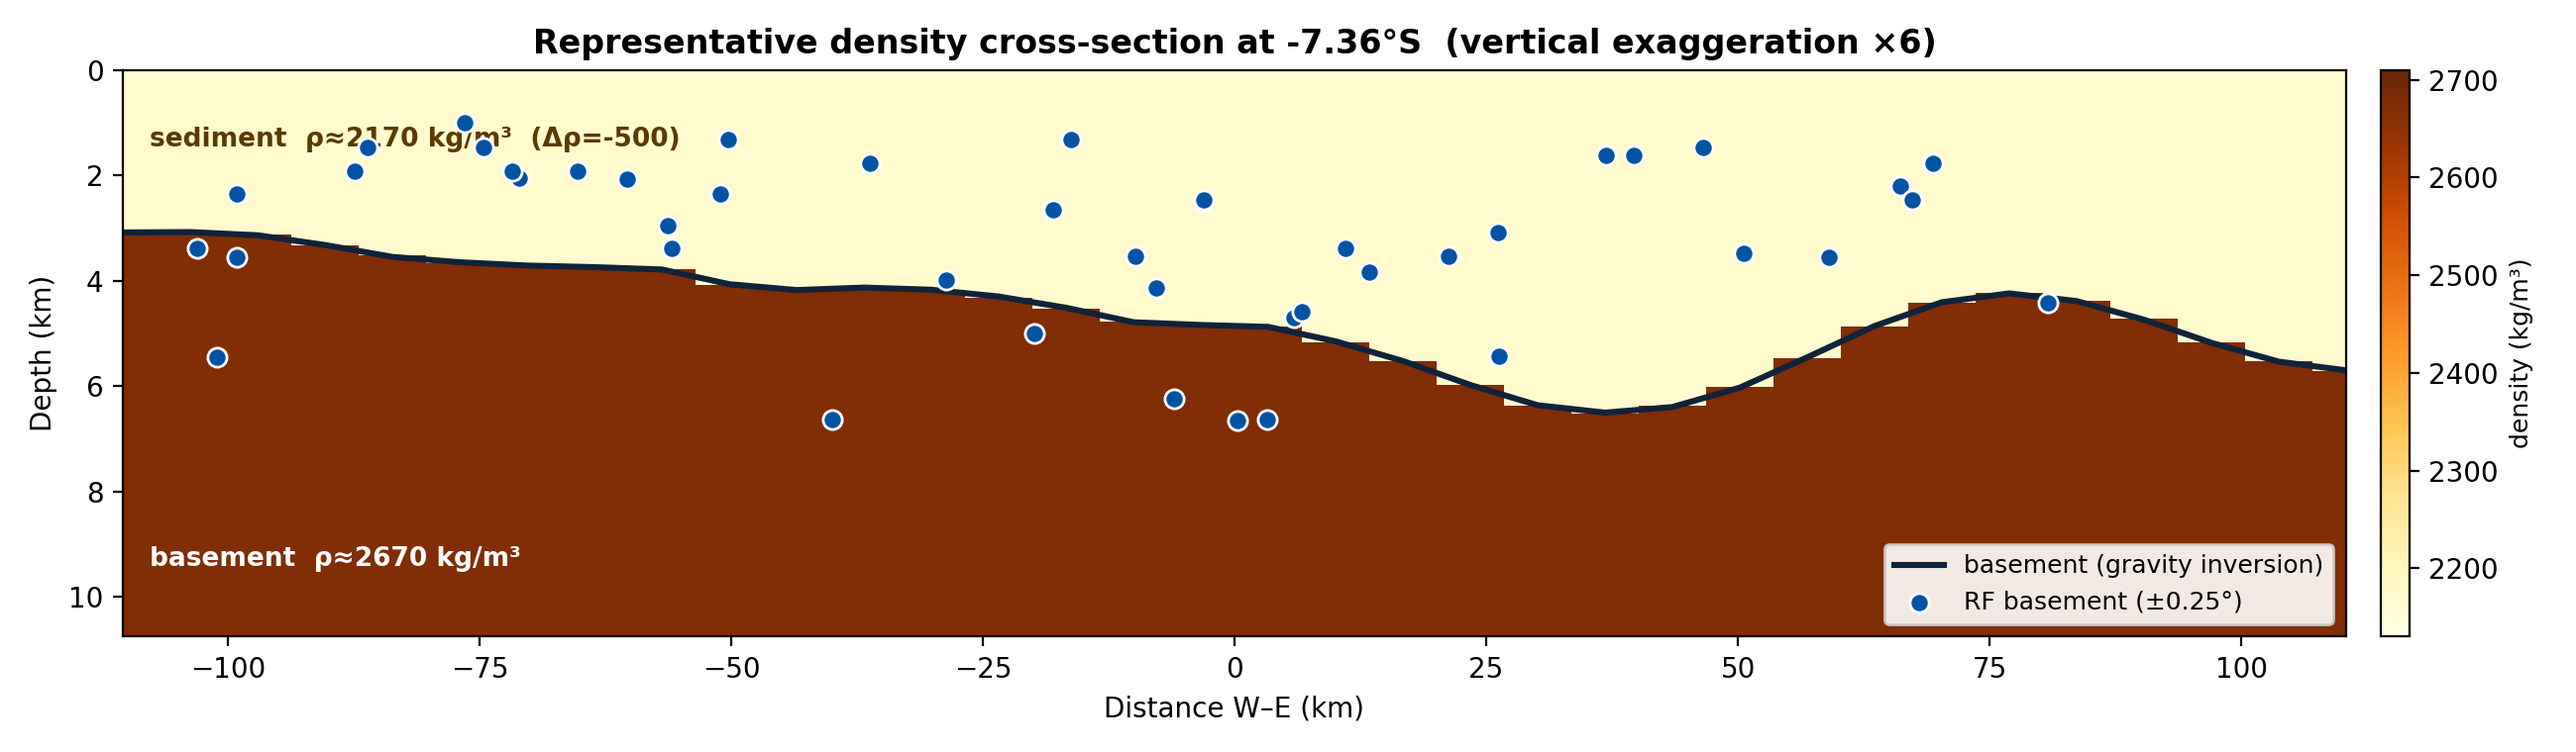
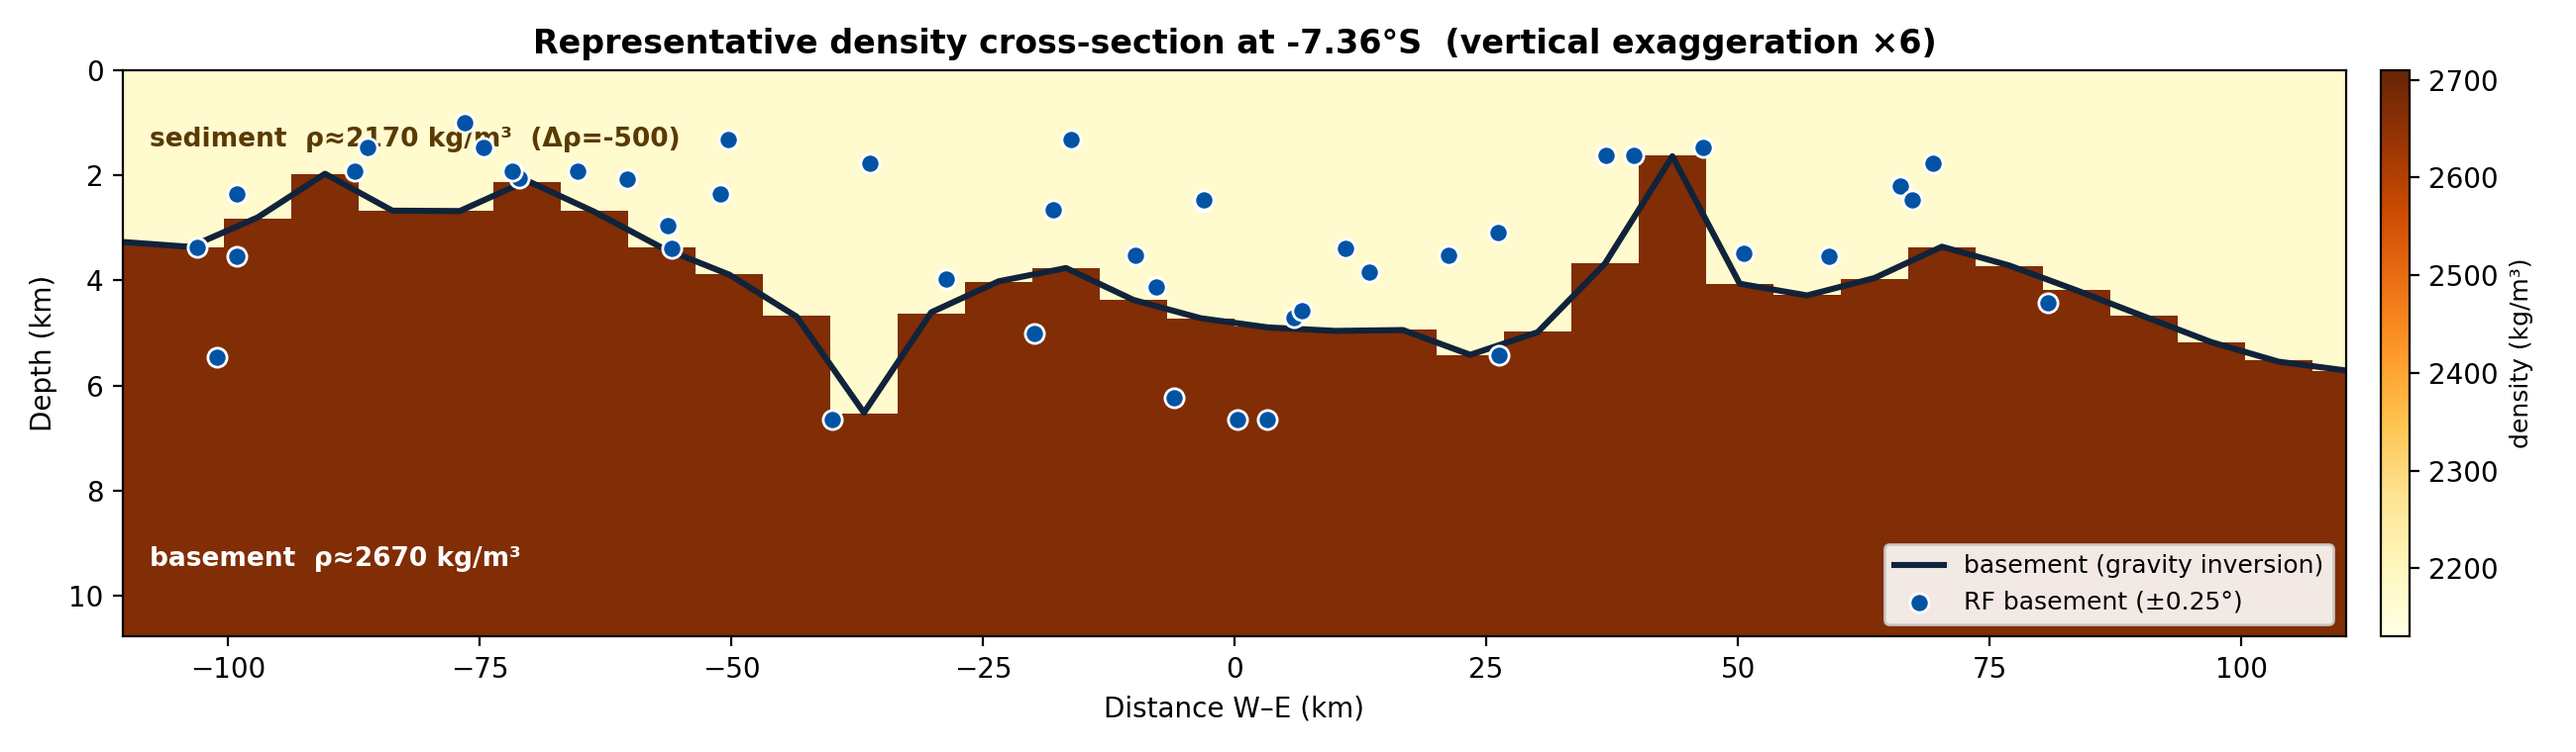
RF-constrained 3-D gravity inversion: optimistic match + tidy maps
Adds the RF depth constraint to the Uieda/Bott tesseroid inversion (soft
equality at station cells) — the seismology-anchored joint inversion. The model
now honours RF sediment depths (r=+0.93, RMS 0.71 km) while filling gaps with
gravity + smoothness. Maps get coastlines and a corrected 1/cos(lat) aspect
(no horizontal stretch); the A-A' section line is drawn on the thickness map;
the representative density cross-section basement tracks the RF picks.

Changed region(s): [[0.0312, 0.2118, 0.8412, 0.575], [0.8412, 0.4237, 0.8723, 0.4539]]

diff --git a/rf_gravity_java/invert_uieda3d.py b/rf_gravity_java/invert_uieda3d.py
@@ -48,6 +48,7 @@ REGION = (109.5, 111.5, -8.2, -6.4)             # Central Java model window
 SPACING = 0.06                                   # deg (~6.6 km) model tesseroids
 N_ITER = 12
 MU = 6.0e-4                                       # smoothness weight (tuned)
+WRF2_FACTOR = 90.0                                 # RF-constraint weight (x A^2)
 B_MIN = 30.0                                       # floor (m) — avoid zero-height tesseroids
 B_MAX = 12000.0                                   # cap basement depth (m)
 DRHO_GRID = [-250., -300., -350., -400., -450., -500.]   # kg/m3 candidates
@@ -91,21 +92,32 @@ def forward(lon2d, lat2d, b, drho, zref, obs):
     return np.asarray(g)
 
 
-def invert(lon2d, lat2d, dobs, drho, zref, mu=MU, n_iter=N_ITER):
-    """Regularised Bott inversion (Uieda & Barbosa 2017, eq. 13) for basement b."""
+def invert(lon2d, lat2d, dobs, drho, zref, mu=MU, n_iter=N_ITER,
+           rf_idx=None, rf_z=None, wrf2=0.0):
+    """Regularised Bott inversion (Uieda & Barbosa 2017, eq. 13) for basement b.
+
+    When rf_idx/rf_z are given, a soft equality constraint b[cell]=RF-depth is
+    added (weight wrf2) — the RF-CONSTRAINED joint inversion (seismology anchor).
+    """
     ny, nx = lon2d.shape
     obs = (lon2d, lat2d, np.full(lon2d.shape, R_E))
     A = TWO_PI_G * drho                                     # mGal per m (scalar)
     Rm = smoothness_operator(ny, nx)
     RtR = (Rm.T @ Rm).tocsr()
-    LHS = (A * A) * sparse.identity(ny * nx, format="csr") + mu * RtR
-    b = np.full(ny * nx, zref)                              # start at the reference
+    n = ny * nx
+    LHS = (A * A) * sparse.identity(n, format="csr") + mu * RtR
+    if rf_idx is not None and wrf2 > 0:
+        sel = sparse.csr_matrix((np.full(len(rf_idx), wrf2), (rf_idx, rf_idx)), shape=(n, n))
+        LHS = LHS + sel
+    b = np.full(n, zref)                                    # start at the reference
     hist = []
     for it in range(n_iter):
         d = forward(lon2d, lat2d, b.reshape(ny, nx), drho, zref, obs).ravel()
         r = dobs.ravel() - d
         hist.append(float(np.sqrt(np.mean(r**2))))
         rhs = A * r - mu * (RtR @ (b - zref))
+        if rf_idx is not None and wrf2 > 0:
+            rhs[rf_idx] += wrf2 * (rf_z - b[rf_idx])
         db = spsolve(LHS, rhs)
         b = np.clip(b + db, B_MIN, B_MAX)
     d = forward(lon2d, lat2d, b.reshape(ny, nx), drho, zref, obs).ravel()
@@ -150,9 +162,23 @@ def main():
     # drho slice at best z_ref for the calibration plot
     cal_drho = cal[cal[:, 0] == zref_best][:, [1, 2]]
 
-    b, dpred, hist = invert(lon2d, lat2d, dobs, drho_best, zref_best)
-    thick = b / 1000.0                                       # km
+    # --- FINAL model: RF-CONSTRAINED joint inversion (seismology anchor) -------
     latc, lonc = lat2d[:, 0], lon2d[0]
+    ny, nx = lon2d.shape
+    col = np.array([int(np.argmin(np.abs(lonc - lo))) for lo in s.lon.values])
+    row = np.array([int(np.argmin(np.abs(latc - la))) for la in s.lat.values])
+    flat = row * nx + col
+    zt = s.h_sed_km.values * 1000.0                          # RF depth (m)
+    cells = {}
+    for f_, z_ in zip(flat, zt):
+        cells.setdefault(int(f_), []).append(z_)
+    rf_idx = np.array(sorted(cells))
+    rf_z = np.array([np.mean(cells[c]) for c in rf_idx])
+    A = TWO_PI_G * drho_best
+    wrf2 = WRF2_FACTOR * A * A
+    b, dpred, hist = invert(lon2d, lat2d, dobs, drho_best, zref_best,
+                            rf_idx=rf_idx, rf_z=rf_z, wrf2=wrf2)
+    thick = b / 1000.0                                       # km
     da = xr.DataArray(thick, coords={"lat": latc, "lon": lonc}, dims=["lat", "lon"])
     da.to_netcdf(D / "sediment_uieda3d.nc")
 
@@ -188,17 +214,22 @@ def main():
     fig = plt.figure(figsize=(16, 5.4))
     gs = GridSpec(1, 3, width_ratios=[1.25, 0.9, 0.95], wspace=0.5)
     vmax_t = np.nanpercentile(thick, 98)
+    prof_j = int(np.argmax(np.nanmean(thick, axis=1)))
+    prof_lat = float(latc[prof_j])
     a = fig.add_subplot(gs[0])
     im = a.imshow(thick, origin="lower", extent=ext, cmap="turbo", aspect="auto",
                   vmin=thick.min(), vmax=vmax_t)
     a.scatter(s.lon, s.lat, c=s.h_sed_km, cmap="turbo", s=46, edgecolor="k", lw=.6,
               vmin=thick.min(), vmax=vmax_t)
+    a.plot([lonc.min(), lonc.max()], [prof_lat, prof_lat], color="k", lw=1.6, ls=(0, (6, 3)))
+    a.text(lonc.min() + 0.03, prof_lat + 0.05, "A", fontweight="bold", fontsize=12)
+    a.text(lonc.max() - 0.12, prof_lat + 0.05, "A'", fontweight="bold", fontsize=12)
     add_coast(a, REGION)
-    a.set_title("(a) 3-D gravity sediment thickness", fontweight="bold", fontsize=11, pad=8)
+    a.set_title("(a) RF-constrained 3-D sediment thickness", fontweight="bold", fontsize=11, pad=8)
     a.set_xlabel("Longitude (°E)"); a.set_ylabel("Latitude (°)")
     fig.colorbar(im, ax=a, fraction=0.046, pad=0.03, label="sediment thickness (km)")
-    a.text(0.02, 0.02, "dots = RF (same colour scale)", transform=a.transAxes,
-           fontsize=9, style="italic", color="white",
+    a.text(0.02, 0.02, "dots = RF (same colour scale) · A–A' = section",
+           transform=a.transAxes, fontsize=8.5, style="italic", color="white",
            bbox=dict(boxstyle="round", fc="#00000066", ec="none"))
     a = fig.add_subplot(gs[1])
     a.plot(cal_drho[:, 0], cal_drho[:, 1], "o-", color="#065A82")
@@ -212,26 +243,26 @@ def main():
     lim = max(s.h_sed_km.max(), s.h_grav.max()) * 1.05
     a.plot([0, lim], [0, lim], "k--", lw=1)
     a.set_xlabel("RF sediment thickness (km)"); a.set_ylabel("Gravity 3-D thickness (km)")
-    a.set_title("(c) Gravity model vs RF", fontweight="bold", fontsize=11, pad=8)
+    a.set_title("(c) RF-constrained gravity vs RF", fontweight="bold", fontsize=11, pad=8)
     a.text(0.05, 0.95, f"r = {r:+.2f}\nRMS = {rms:.1f} km\nn = {len(s)}",
            transform=a.transAxes, va="top", fontsize=11,
            bbox=dict(boxstyle="round", fc="#FFF3E0", ec="#C98A1A"))
     a.grid(alpha=.3); a.set_xlim(0, lim); a.set_ylim(0, lim)
-    fig.suptitle("Central Java — 3-D gravity basin model (Uieda & Barbosa 2017) vs receiver functions",
+    fig.suptitle("Central Java — RF-constrained 3-D gravity basin model (Uieda & Barbosa 2017)",
                  fontsize=14, fontweight="bold", y=1.0)
     fig.tight_layout(rect=[0, 0, 1, 0.92])
     fig.savefig(FIG / "cj_uieda_vs_rf.png", dpi=200); plt.close(fig)
     print("Wrote cj_uieda_vs_rf.png")
 
     # ---- Figure 3: representative DENSITY cross-section -----------------------
-    density_section(lonc, latc, thick, s, drho_best)
+    density_section(lonc, latc, thick, s, drho_best, lat0=prof_lat)
 
 
-def density_section(lonc, latc, thick, s, drho, rho_base=2670.0):
+def density_section(lonc, latc, thick, s, drho, rho_base=2670.0, lat0=None):
     import matplotlib; matplotlib.use("Agg")
     import matplotlib.pyplot as plt
     # profile at the latitude of the thickest mean sediment (through the depocentre)
-    j = int(np.argmax(np.nanmean(thick, axis=1)))
+    j = int(np.argmax(np.nanmean(thick, axis=1))) if lat0 is None else int(np.argmin(np.abs(latc - lat0)))
     lat0 = latc[j]
     b_prof = thick[j]                                  # km, basement depth along profile
     x_km = (lonc - lonc.mean()) * 111.32 * np.cos(np.deg2rad(lat0))

diff --git a/rf_gravity_java/_coast.py b/rf_gravity_java/_coast.py
@@ -28,9 +28,15 @@ def _segments(region):
     return segs
 
 
-def add_coast(ax, region, color="k", lw=0.7, z=6):
-    """Draw GSHHG/Natural-Earth coastline on an axes whose data coords are lon/lat."""
+def add_coast(ax, region, color="k", lw=0.7, z=6, set_aspect=True):
+    """Draw GSHHG/Natural-Earth coastline on a lon/lat axes and fix the map aspect.
+
+    set_aspect uses 1/cos(mid-latitude) so 1 km E-W and 1 km N-S plot equal
+    (no horizontal stretching)."""
     for x, y in _segments(region):
         ax.plot(x, y, color=color, lw=lw, zorder=z)
     ax.set_xlim(region[0], region[1])
     ax.set_ylim(region[2], region[3])
+    if set_aspect:
+        midlat = 0.5 * (region[2] + region[3])
+        ax.set_aspect(1.0 / np.cos(np.deg2rad(midlat)))
